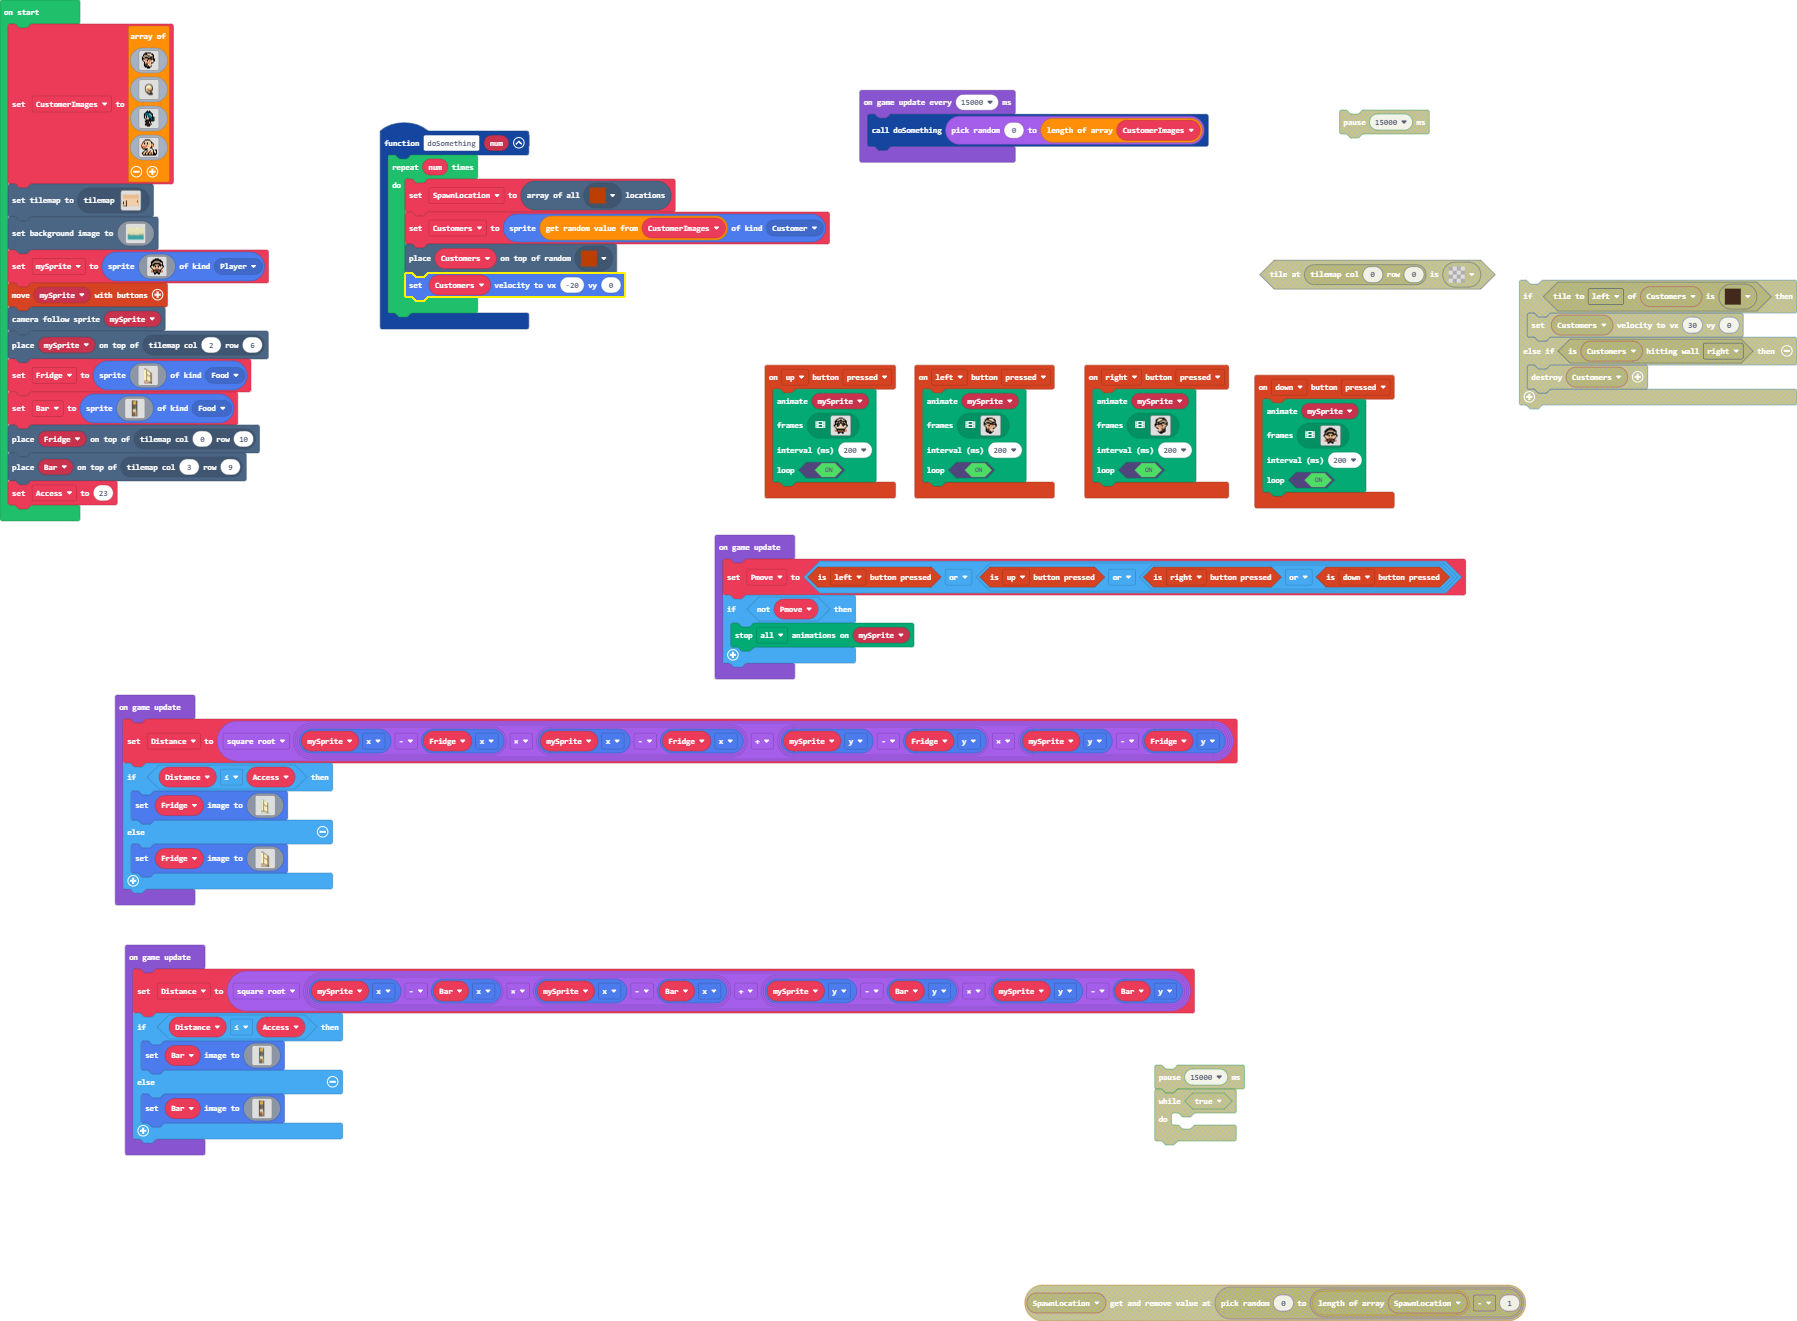
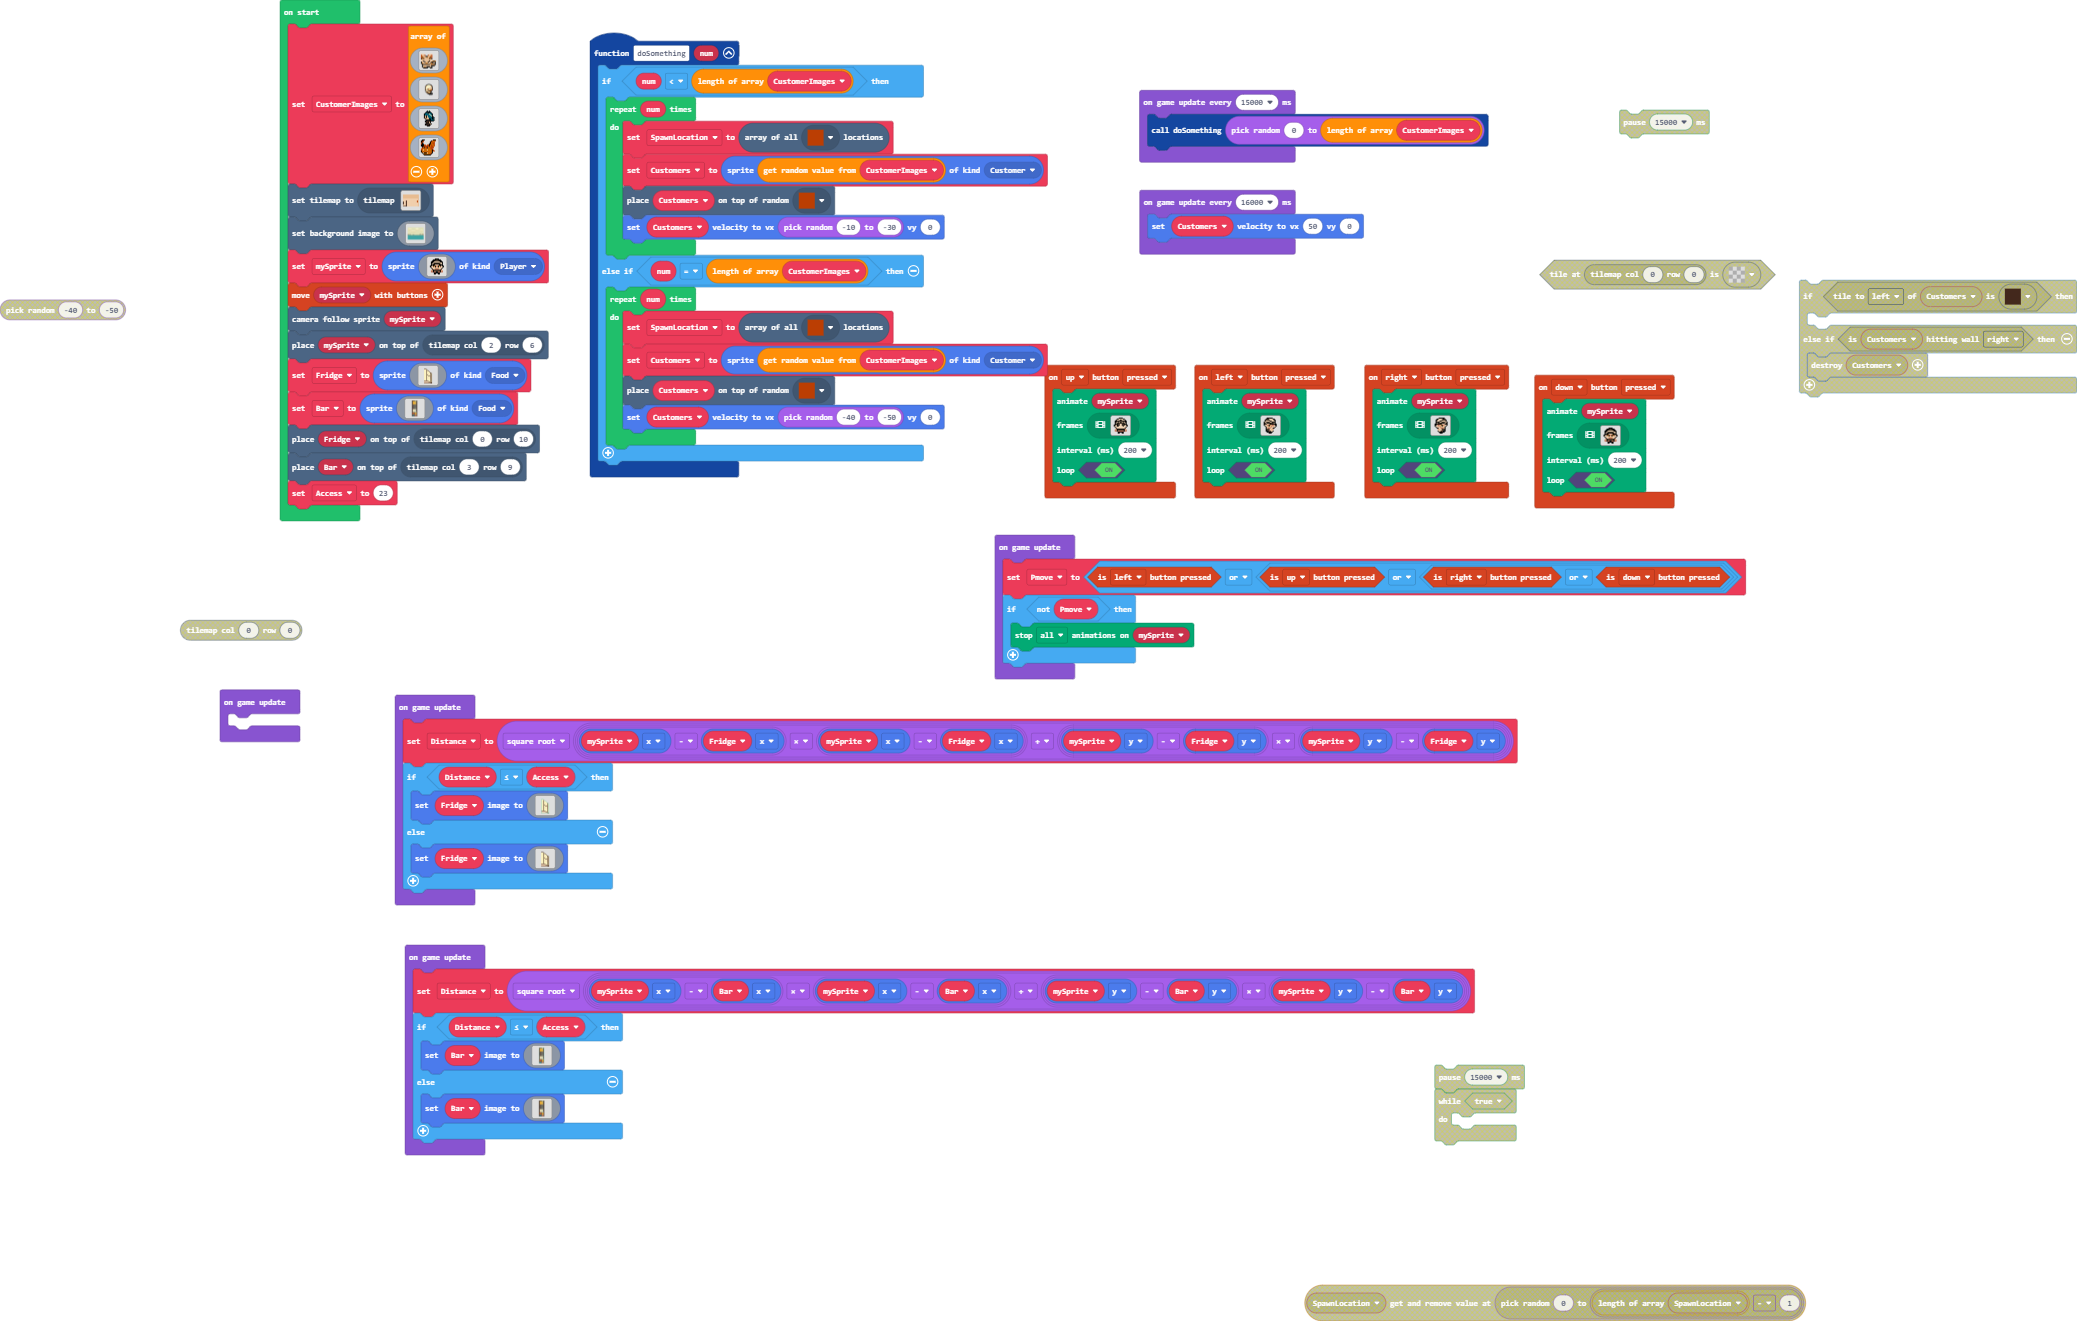
Update main.blocks, main.ts

diff --git a/main.ts b/main.ts
@@ -162,11 +162,20 @@ controller.right.onEvent(ControllerButtonEvent.Pressed, function () {
     )
 })
 function doSomething (num: number) {
-    for (let index = 0; index < num; index++) {
-        SpawnLocation = tiles.getTilesByType(assets.tile`myTile7`)
-        Customers = sprites.create(CustomerImages._pickRandom(), SpriteKind.Customer)
-        tiles.placeOnRandomTile(Customers, assets.tile`myTile7`)
-        Customers.setVelocity(-20, 0)
+    if (num < CustomerImages.length) {
+        for (let index = 0; index < num; index++) {
+            SpawnLocation = tiles.getTilesByType(assets.tile`myTile7`)
+            Customers = sprites.create(CustomerImages._pickRandom(), SpriteKind.Customer)
+            tiles.placeOnRandomTile(Customers, assets.tile`myTile7`)
+            Customers.setVelocity(randint(-10, -30), 0)
+        }
+    } else if (num == CustomerImages.length) {
+        for (let index = 0; index < num; index++) {
+            SpawnLocation = tiles.getTilesByType(assets.tile`myTile7`)
+            Customers = sprites.create(CustomerImages._pickRandom(), SpriteKind.Customer)
+            tiles.placeOnRandomTile(Customers, assets.tile`myTile7`)
+            Customers.setVelocity(randint(-40, -50), 0)
+        }
     }
 }
 controller.down.onEvent(ControllerButtonEvent.Pressed, function () {
@@ -253,22 +262,20 @@ let mySprite: Sprite = null
 let CustomerImages: Image[] = []
 CustomerImages = [
 img`
-    . . . . f f f f f f . . . . . . 
-    . . . f 2 f e e e e f f . . . . 
-    . . f 2 2 2 f e e e e f f . . . 
-    . . f e e e e f f e e e f . . . 
-    . f e 2 2 2 2 e e f f f f . . . 
-    . f 2 e f f f f 2 2 2 e f . . . 
-    . f f f e e e f f f f f f f . . 
-    . f e e 4 4 f b e 4 4 e f f . . 
-    . . f e d d f 1 4 d 4 e e f . . 
-    . . . f d d d d 4 e e e f . . . 
-    . . . f e 4 4 4 e e f f . . . . 
-    . . . f 2 2 2 e d d 4 . . . . . 
-    . . . f 2 2 2 e d d e . . . . . 
-    . . . f 5 5 4 f e e f . . . . . 
-    . . . . f f f f f f . . . . . . 
-    . . . . . . f f f . . . . . . . 
+    . . . . . . . . . . . . . . 
+    e e e . . . . e e e . . . . 
+    c d d c . . c d d c . . . . 
+    c b d d f f d d b c . . . . 
+    c 3 b d d b d b 3 c . . . . 
+    f b 3 d d d d 3 b f . . . . 
+    e d d d d d d d d e . . . . 
+    e d f d d d d f d e b f b . 
+    f d d f d d f d d f f d f . 
+    f b d d b b d d 2 b f d f . 
+    . f 2 2 2 2 2 2 d b d b f . 
+    . f d d d d d d d f f f . . 
+    . f d b d f f f d f . . . . 
+    . . f f f f . . f f . . . . 
     `,
 img`
     ........................
@@ -315,22 +322,22 @@ img`
     . . . . . . f f f . . . . . . . 
     `,
 img`
-    . . . . f f f f f . . . . . . . 
-    . . . f e e e e e f . . . . . . 
-    . . f d d d d e e e f . . . . . 
-    . c d f d d f d e e f f . . . . 
-    . c d f d d f d e e d d f . . . 
-    c d e e d d d d e e b d c . . . 
-    c d d d d c d d e e b d c . . . 
-    c c c c c d d e e e f c . . . . 
-    . f d d d d e e e f f . . . . . 
-    . . f f f f f e e e e f . . . . 
-    . . . . f f e e e e e e f . f f 
-    . . . f e e f e e f e e f . e f 
-    . . f e e f e e f e e e f . e f 
-    . f b d f d b f b b f e f f e f 
-    . f d d f d d f d d b e f f f f 
-    . . f f f f f f f f f f f f f . 
+    . f f f . . . . . . . . f f f . 
+    f f c . . . . . . . f c b b c . 
+    f c c . . . . . . f c b b c . . 
+    c f . . . . . . . f b c c c . . 
+    c f f . . . . . f f b b c c . . 
+    f f f c c . c c f b c b b c . . 
+    f f f c c c c c f b c c b c . . 
+    . f c 3 c c 3 b c b c c c . . . 
+    . c b 3 b c 3 b b c c c c . . . 
+    c c b b b b b b b b c c . . . . 
+    c b 1 b b b 1 b b b b f c . . . 
+    f b b b b b b b b b b f c c . . 
+    f b c b b b c b b b b f . . . . 
+    . f 1 f f f 1 b b b c f . . . . 
+    . . f b b b b b b c f . . . . . 
+    . . . f f f f f f f . . . . . . 
     `
 ]
 tiles.setCurrentTilemap(tilemap`Cafe`)
@@ -489,6 +496,9 @@ game.onUpdate(function () {
     }
 })
 game.onUpdate(function () {
+	
+})
+game.onUpdate(function () {
     Distance = Math.sqrt((mySprite.x - Fridge.x) * (mySprite.x - Fridge.x) + (mySprite.y - Fridge.y) * (mySprite.y - Fridge.y))
     if (Distance <= Access) {
         Fridge.setImage(assets.image`fridgeh`)
@@ -506,4 +516,7 @@ game.onUpdate(function () {
 })
 game.onUpdateInterval(15000, function () {
     doSomething(randint(0, CustomerImages.length))
+})
+game.onUpdateInterval(16000, function () {
+    Customers.setVelocity(50, 0)
 })
